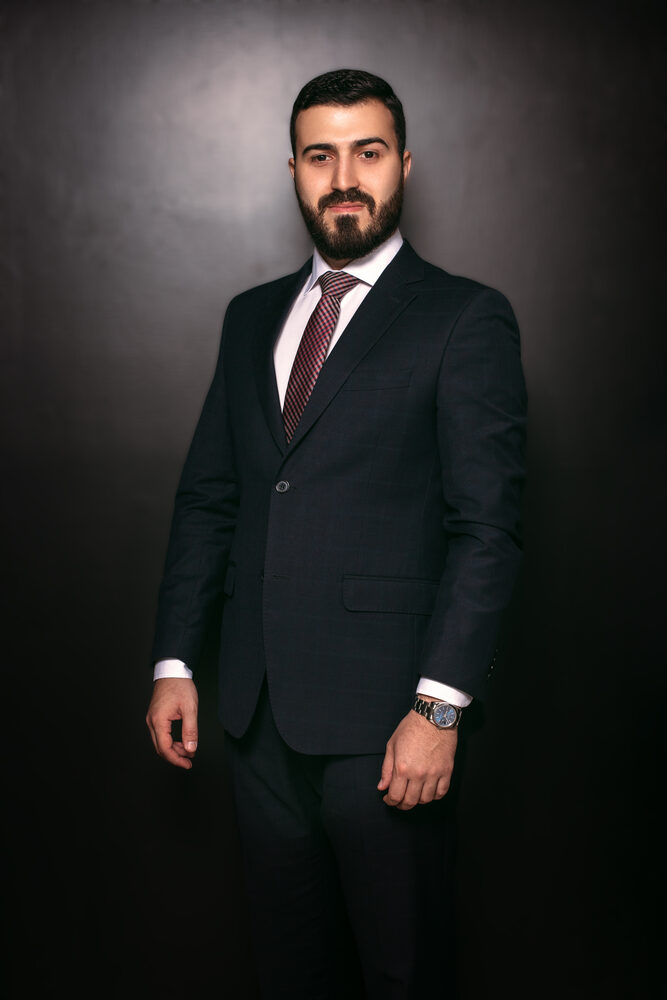
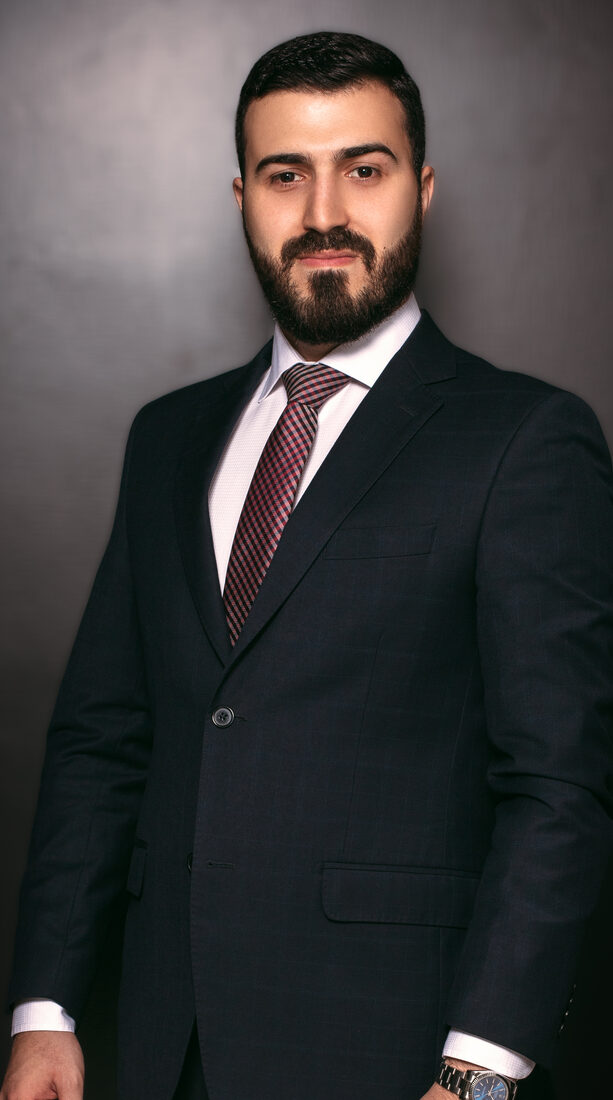
Add files via upload

diff --git a/index.html b/index.html
@@ -85,6 +85,10 @@
     header > div{padding-left:20px!important;padding-right:20px!important}
     footer > div{padding-left:20px!important;padding-right:20px!important}
     h2{font-size:29px!important;line-height:1.22!important}
+    .rsp-nav-cta{padding:9px 15px!important;font-size:12px!important}
+    .rsp-namecard{position:static!important;bottom:auto!important;left:auto!important;max-width:none!important;margin-top:12px!important;text-align:center!important}
+    .rsp-foot{flex-direction:column!important;gap:18px!important;padding-top:40px!important;padding-bottom:40px!important}
+    .rsp-foot-right{text-align:left!important}
   }
 </style>
 </head>
@@ -98,12 +102,14 @@
       <a href="#" style="display:block;line-height:0">
         <img src="./logo.png" alt="Souza Neto Advocacia" style="height:62px;width:auto;filter:brightness(0) invert(1);display:block">
       </a>
-      <nav class="rsp-nav-links" style="display:flex;align-items:center;gap:32px">
-        <a href="#como-funciona" style="color:#cdd5df;text-decoration:none;font-size:14px;font-weight:500">Como funciona</a>
-        <a href="#contratos" style="color:#cdd5df;text-decoration:none;font-size:14px;font-weight:500">Contratos</a>
-        <a href="#faq" style="color:#cdd5df;text-decoration:none;font-size:14px;font-weight:500">Dúvidas</a>
-        <a href="#contratar" style="background:#c2a26a;color:#0e1c2e;text-decoration:none;font-size:13px;font-weight:700;padding:11px 22px;border-radius:3px;letter-spacing:0.02em">Contratar agora</a>
-      </nav>
+      <div style="display:flex;align-items:center;gap:28px">
+        <nav class="rsp-nav-links" style="display:flex;align-items:center;gap:32px">
+          <a href="#como-funciona" style="color:#cdd5df;text-decoration:none;font-size:14px;font-weight:500">Como funciona</a>
+          <a href="#contratos" style="color:#cdd5df;text-decoration:none;font-size:14px;font-weight:500">Contratos</a>
+          <a href="#faq" style="color:#cdd5df;text-decoration:none;font-size:14px;font-weight:500">Dúvidas</a>
+        </nav>
+        <a href="#contratar" class="rsp-nav-cta" style="background:#c2a26a;color:#0e1c2e;text-decoration:none;font-size:13px;font-weight:700;padding:11px 22px;border-radius:3px;letter-spacing:0.02em;white-space:nowrap">Contratar agora</a>
+      </div>
     </div>
   </header>
 
@@ -138,8 +144,8 @@
         </div>
       </div>
       <div class="rsp-hero-img" style="position:relative;display:flex;flex-direction:column;min-height:340px;max-height:430px">
-        <img src="./foto-antonio.jpg" alt="Dr. Antônio B. de Souza Neto — Advogado OAB/MS 22.741" style="flex:1;width:100%;object-fit:cover;object-position:center 12%;border-radius:6px;display:block">
-        <div style="position:absolute;bottom:-16px;left:-16px;background:#f6f4ef;color:#1c2430;padding:13px 17px;border-radius:5px;box-shadow:0 16px 40px rgba(0,0,0,0.32);max-width:206px">
+        <img src="./foto-antonio.jpg" alt="Dr. Antônio B. de Souza Neto — Advogado OAB/MS 22.741" style="flex:1;width:100%;object-fit:cover;object-position:center top;border-radius:6px;display:block">
+        <div class="rsp-namecard" style="position:absolute;bottom:-16px;left:-16px;background:#f6f4ef;color:#1c2430;padding:13px 17px;border-radius:5px;box-shadow:0 16px 40px rgba(0,0,0,0.32);max-width:206px">
           <div style="font-family:'Cormorant Garamond',serif;font-size:15.5px;font-weight:600;line-height:1.15">Dr. Antônio B. de Souza Neto</div>
           <div style="font-size:11px;color:#5a6472;margin-top:3px;letter-spacing:0.04em">Advogado · OAB/MS 22.741</div>
         </div>
@@ -282,7 +288,7 @@
   <section id="contratar" style="background:#f6f4ef">
     <div style="max-width:680px;margin:0 auto;padding:100px 32px;text-align:center">
       <span style="font-size:12px;font-weight:700;letter-spacing:0.22em;text-transform:uppercase;color:#c2a26a">Investimento</span>
-      <h2 style="margin-top:18px;font-family:'Cormorant Garamond',serif;font-size:40px;font-weight:600;line-height:1.2;color:#1c2430;text-wrap:balance">Contrate agora e tenha seu contrato em até 24 horas.</h2>
+      <h2 style="margin-top:18px;font-family:'Cormorant Garamond',serif;font-size:40px;font-weight:600;line-height:1.2;color:#1c2430;text-wrap:balance">Contrate agora e tenha seu contrato em até 24 horas.<span style="color:#c2a26a">*</span></h2>
       <div style="margin-top:44px;background:#0e1c2e;color:#f6f4ef;border-radius:10px;padding:52px 40px;box-shadow:0 30px 70px rgba(14,28,46,0.25)">
         <div style="font-size:14px;color:#aab4c1;letter-spacing:0.04em">Contrato personalizado por advogado</div>
         <div style="margin-top:18px;display:flex;align-items:baseline;justify-content:center;gap:8px">
@@ -309,6 +315,8 @@
           <li><strong>Agenda a reunião</strong> com o advogado, no horário que preferir.</li>
         </ol>
       </div>
+
+      <p style="margin:18px auto 0;font-size:12px;line-height:1.55;color:#8a8270;font-style:italic;max-width:600px">* O prazo de 24 horas conta a partir do recebimento de toda a documentação necessária e da realização da reunião, e refere-se à entrega da <strong>primeira versão</strong> do contrato.</p>
 
       <p style="margin-top:22px;text-align:center;font-size:13.5px;color:#8a8270">Dúvidas? Veja as <a href="#faq" style="color:#a8884f;text-decoration:none;font-weight:600;border-bottom:1px solid rgba(168,136,79,0.4)">perguntas frequentes</a> ou escreva para <a href="mailto:[email redacted]" style="color:#a8884f;text-decoration:none;font-weight:600">[email redacted]</a></p>
     </div>
@@ -367,6 +375,8 @@
         <div style="border:1px solid #e6e1d6;border-radius:7px;padding:24px 26px;background:#fbfaf6"><h3 style="font-size:17px;font-weight:700;color:#1c2430;margin-bottom:9px">Como funciona o pagamento?</h3><p style="font-size:15.5px;line-height:1.65;color:#525b68">À vista por R$ 989,00 ou em até 10x de R$ 98,90 sem juros, no cartão de crédito ou via Pix. O pagamento é feito online, com segurança.</p></div>
         <div style="border:1px solid #e6e1d6;border-radius:7px;padding:24px 26px;background:#fbfaf6"><h3 style="font-size:17px;font-weight:700;color:#1c2430;margin-bottom:9px">Como sei que você é advogado de verdade?</h3><p style="font-size:15.5px;line-height:1.65;color:#525b68">Você confere em 1 minuto no site oficial da OAB (cna.oab.org.br): selecione a seccional MS e busque pelo número 22.741 ou pelo nome Antônio Barbosa de Souza Neto. O registro aparece ativo e regular, com foto.</p></div>
         <div style="border:1px solid #e6e1d6;border-radius:7px;padding:24px 26px;background:#fbfaf6"><h3 style="font-size:17px;font-weight:700;color:#1c2430;margin-bottom:9px">E se eu precisar de um tipo de contrato que não está na lista?</h3><p style="font-size:15.5px;line-height:1.65;color:#525b68">A lista é só uma amostra. Qualquer contrato que você precisar, a gente faz — fale com a gente e explique sua necessidade.</p></div>
+        <div style="border:1px solid #e6e1d6;border-radius:7px;padding:24px 26px;background:#fbfaf6"><h3 style="font-size:17px;font-weight:700;color:#1c2430;margin-bottom:9px">O que acontece depois que eu pago?</h3><p style="font-size:15.5px;line-height:1.65;color:#525b68">Você é direcionado para uma página com dois passos: enviar suas informações e documentos e agendar a reunião com o advogado. Não precisa ter os documentos na hora — você pode enviá-los pelo mesmo link quando tiver, dentro do prazo de 15 dias.</p></div>
+        <div style="border:1px solid #e6e1d6;border-radius:7px;padding:24px 26px;background:#fbfaf6"><h3 style="font-size:17px;font-weight:700;color:#1c2430;margin-bottom:9px">Quais documentos vou precisar enviar?</h3><p style="font-size:15.5px;line-height:1.65;color:#525b68">Depende do contrato, mas em geral: RG e CPF das partes e comprovantes do que foi combinado. Em imóveis, a matrícula; em veículos, o documento (CRLV). Você envia tudo com segurança pelo nosso formulário e pode complementar depois, sem pressa, dentro do prazo.</p></div>
       </div>
     </div>
   </section>
@@ -384,11 +394,11 @@
 
   <!-- RODAPÉ -->
   <footer style="background:#0a1626;color:#9aa4b2;border-top:1px solid rgba(194,162,106,0.2)">
-    <div style="max-width:1180px;margin:0 auto;padding:56px 32px;display:flex;flex-wrap:wrap;gap:40px;justify-content:space-between;align-items:flex-start">
+    <div class="rsp-foot" style="max-width:1180px;margin:0 auto;padding:56px 32px;display:flex;flex-wrap:wrap;gap:40px;justify-content:space-between;align-items:flex-start">
       <div>
         <img src="./logo.png" alt="Souza Neto Advocacia" style="height:46px;width:auto;filter:brightness(0) invert(1);display:block;opacity:0.85">
       </div>
-      <div style="font-size:14.5px;line-height:1.8;text-align:right">
+      <div class="rsp-foot-right" style="font-size:14.5px;line-height:1.8;text-align:right">
         <div style="color:#dde3ea;font-weight:600">Dr. Antônio Barbosa de Souza Neto — OAB/MS 22.741</div>
         <div>Souza Neto Sociedade Individual de Advocacia — CNPJ 35.547.670/0001-07</div>
         <div>Rua Augusto Leite Figueiredo, 80, sala 13 — Campo Grande/MS</div>